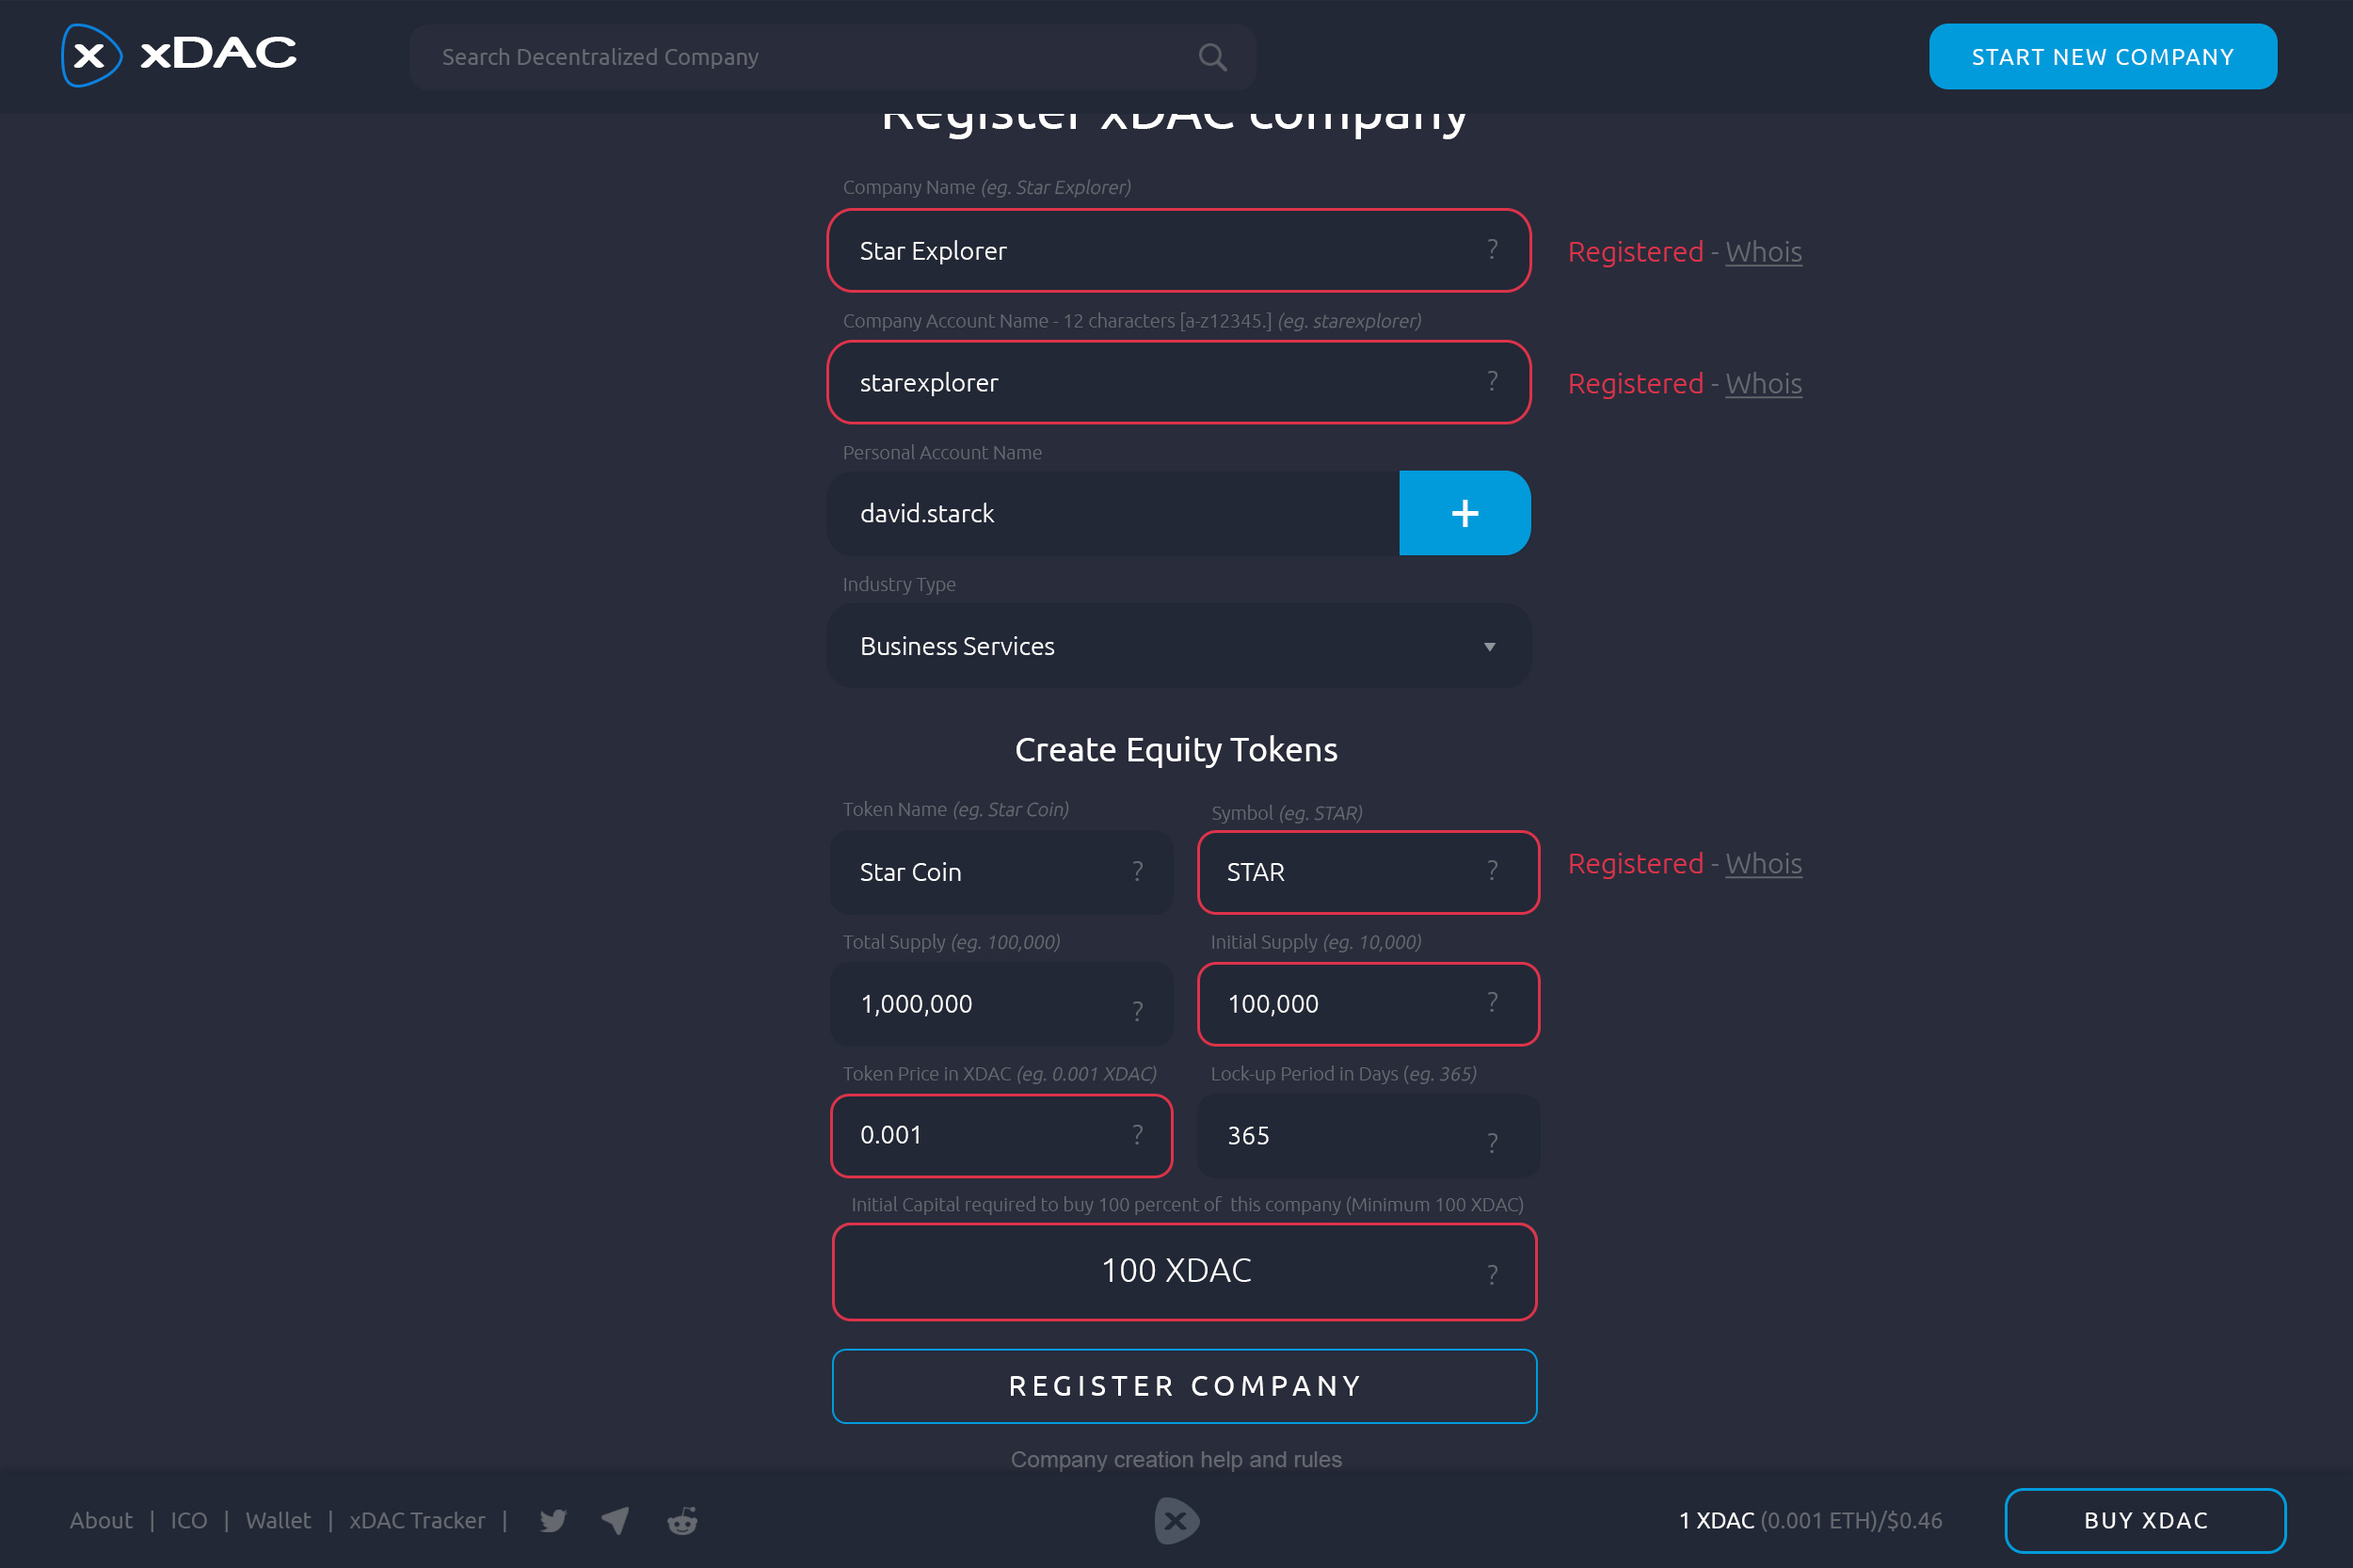
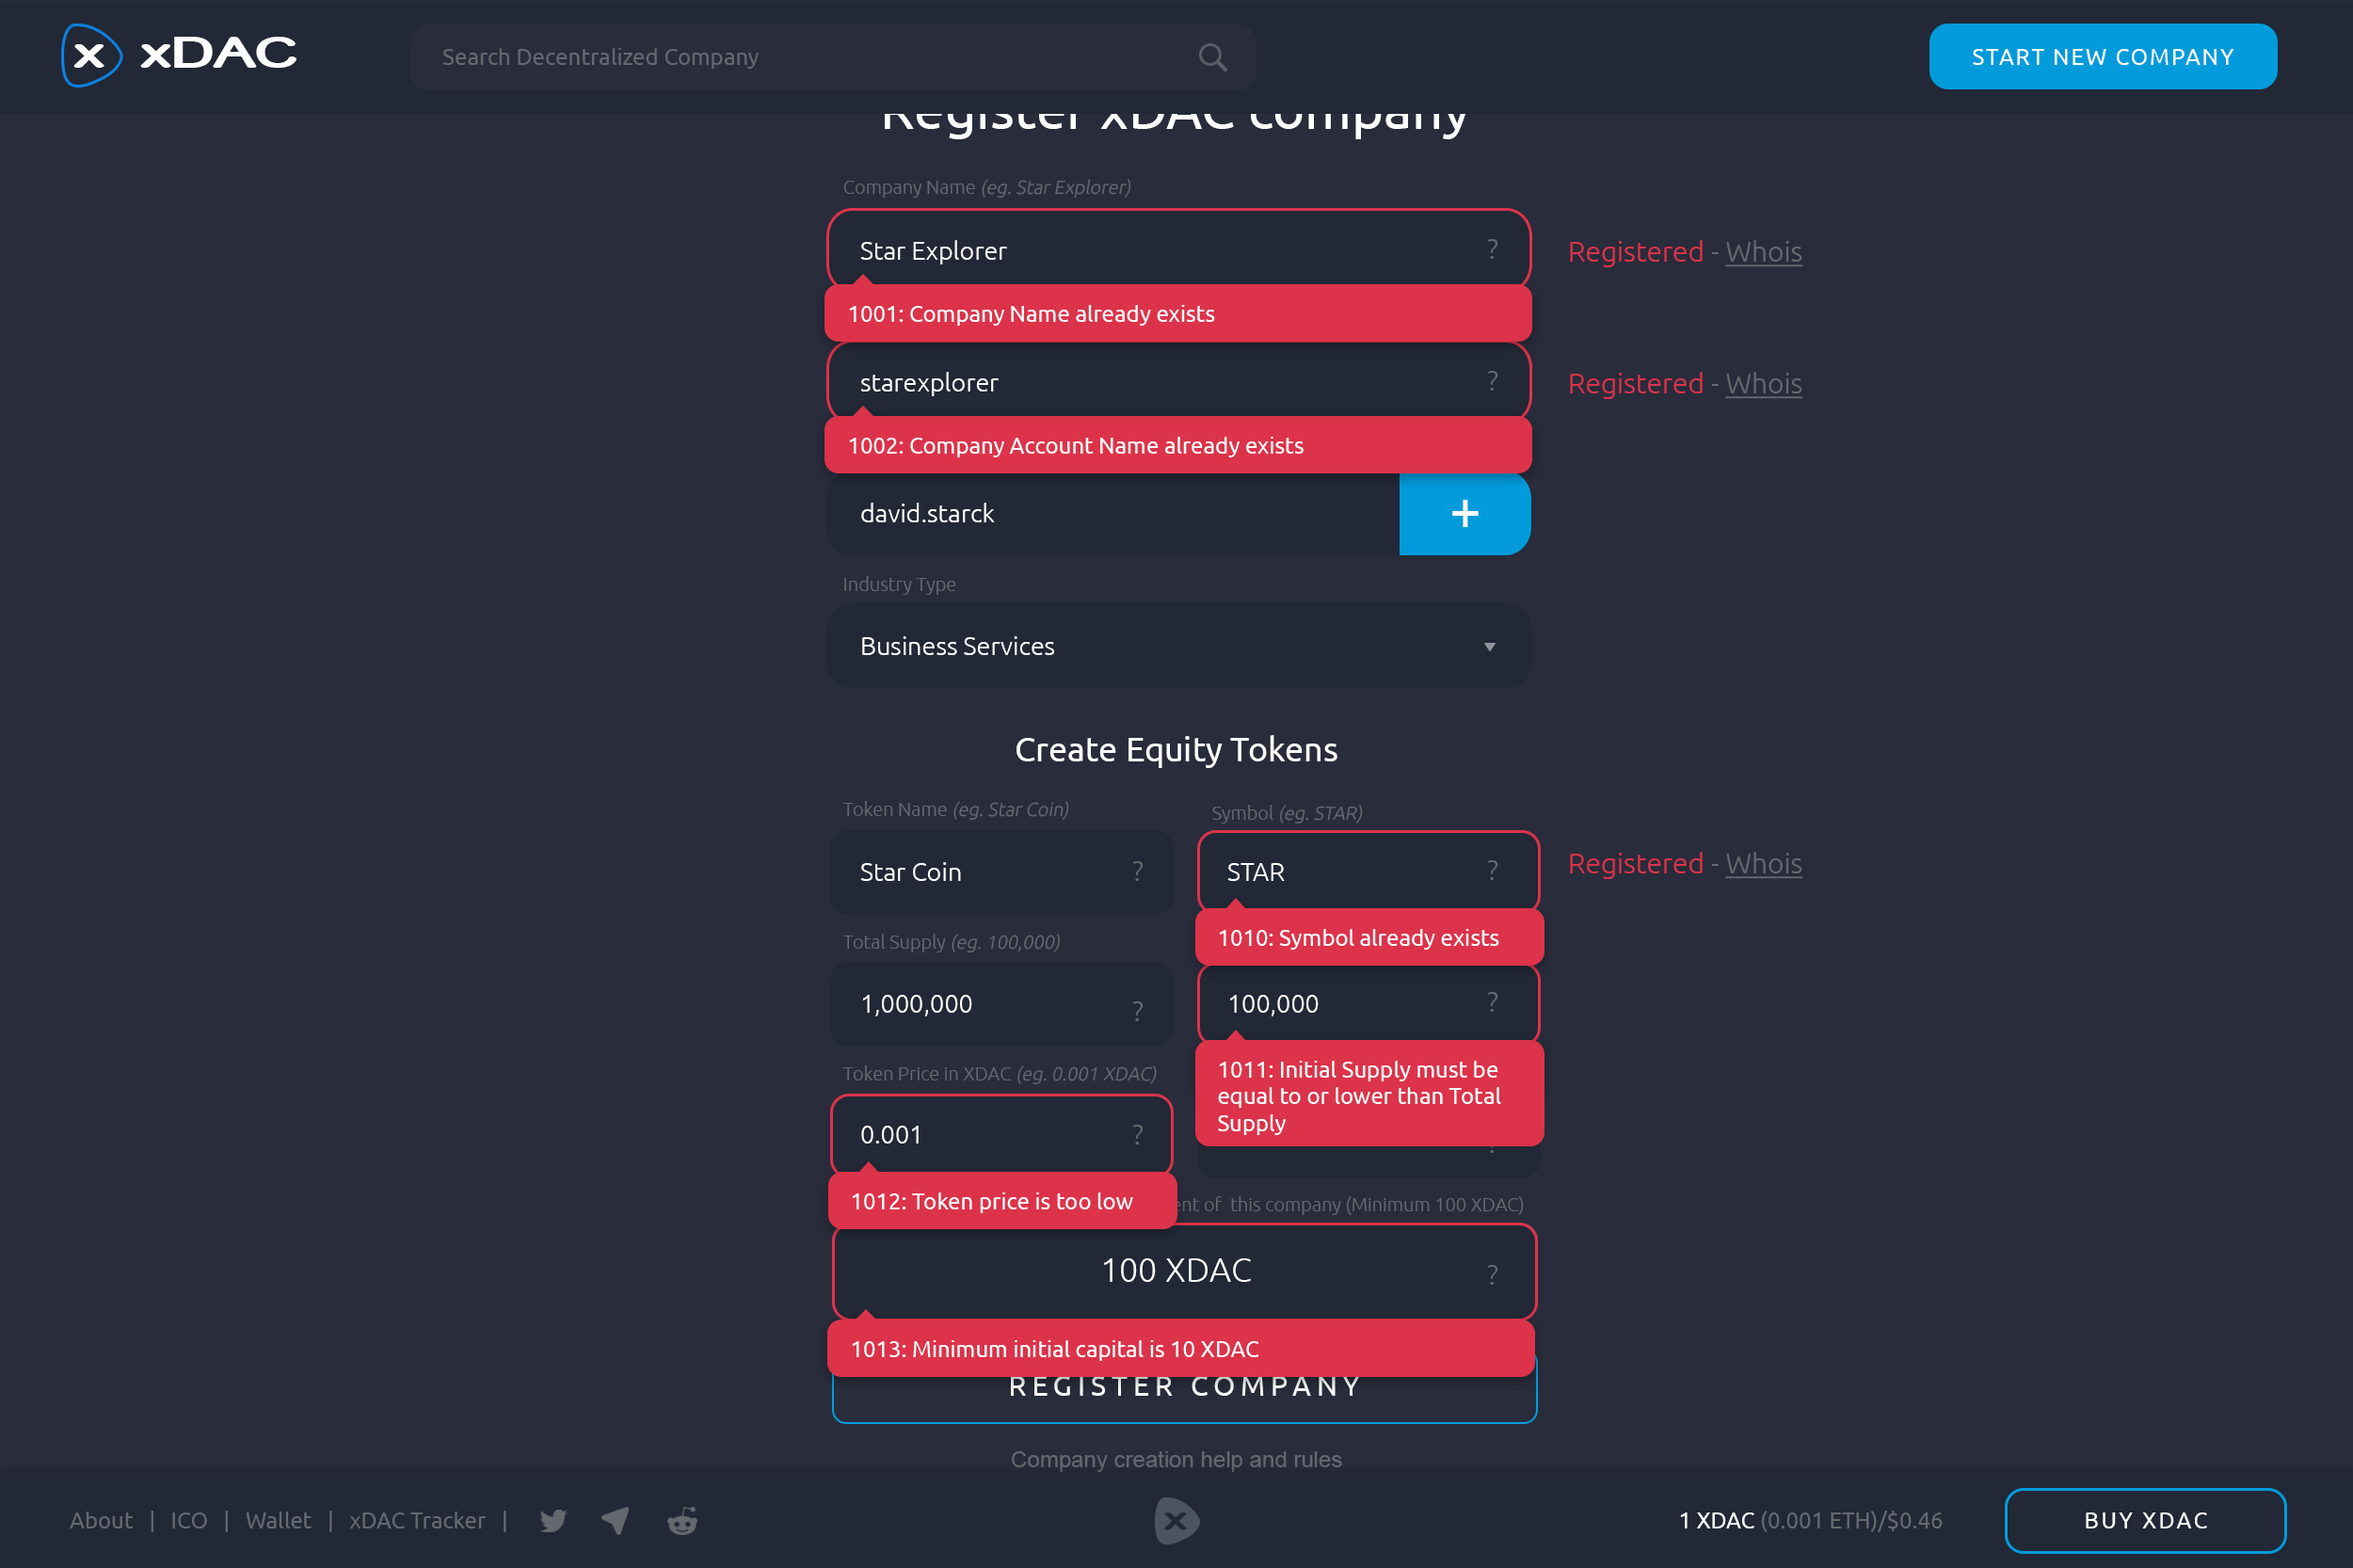
Error codes

diff --git a/xDAC-Functional-Specification.md b/xDAC-Functional-Specification.md
@@ -113,6 +113,21 @@ The request is sent to core contract and checked for valid data and duplicates. 
 
 ![xDAC Registration form error](/images/xDAC-Company-registration-form-error.jpg) 
 
+![xDAC Registration form error](/images/xDAC-Company-registration-form-error1.jpg) 
+
+**Error codes**
+
+Code | Text
+----|----|
+1001 | Company name already exists
+1002 | Company Account Name already exists
+1010 | Symbol already exists
+1011 | Initial Supply must be equal to or lower than Total Supply
+1012 | Token price is too low
+1013 | Minimum Initial Capital is 100 XDAC
+1020 | Minimum equity amount is 1 XDAC
+1021 | Equity must be between 1 and 100%
+
 ## 2.5.	Buy Equity in New Company (Step 4)
 
 After data validation, Register Company button will open the Buy Equity sidebar. The sidebar contains a form with:
